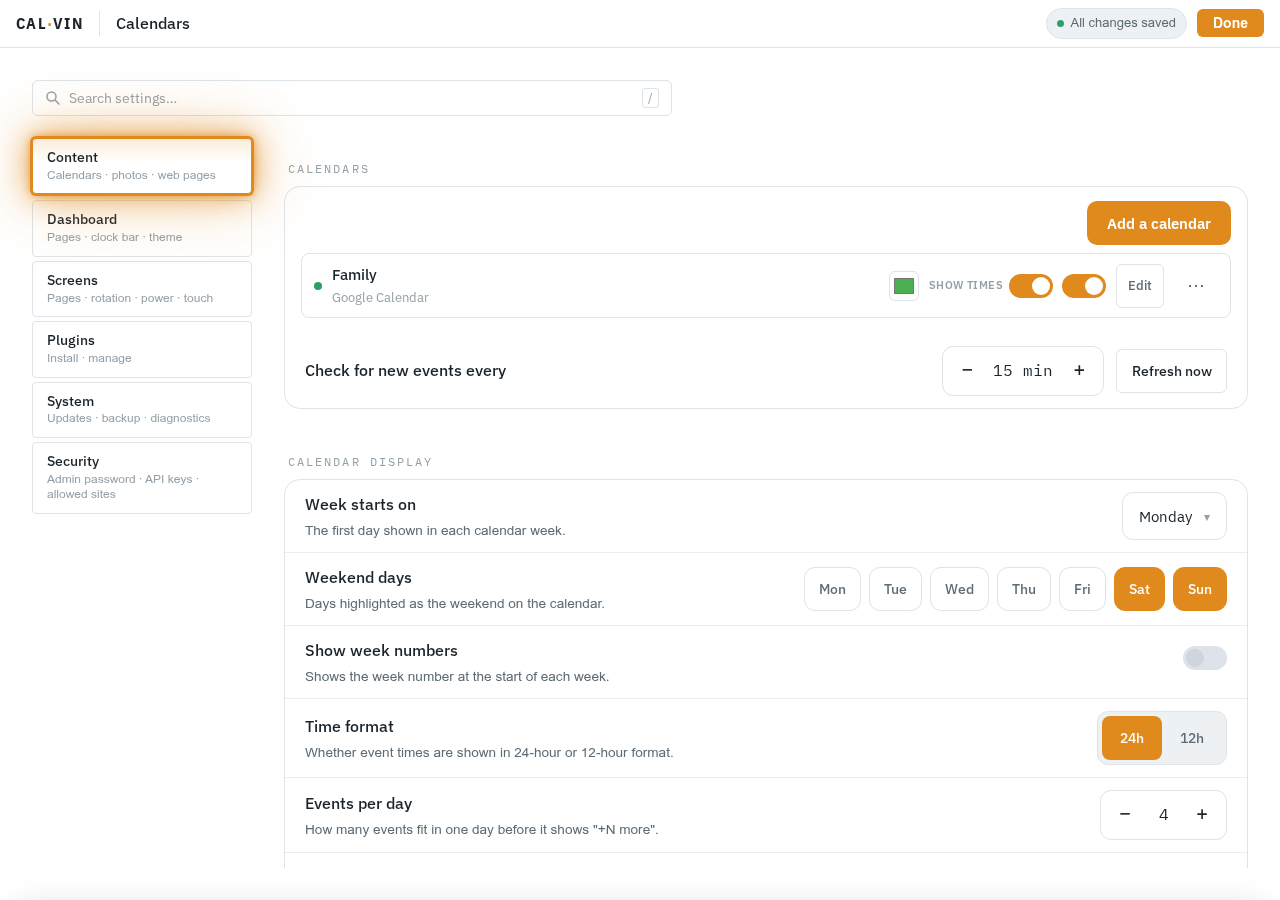
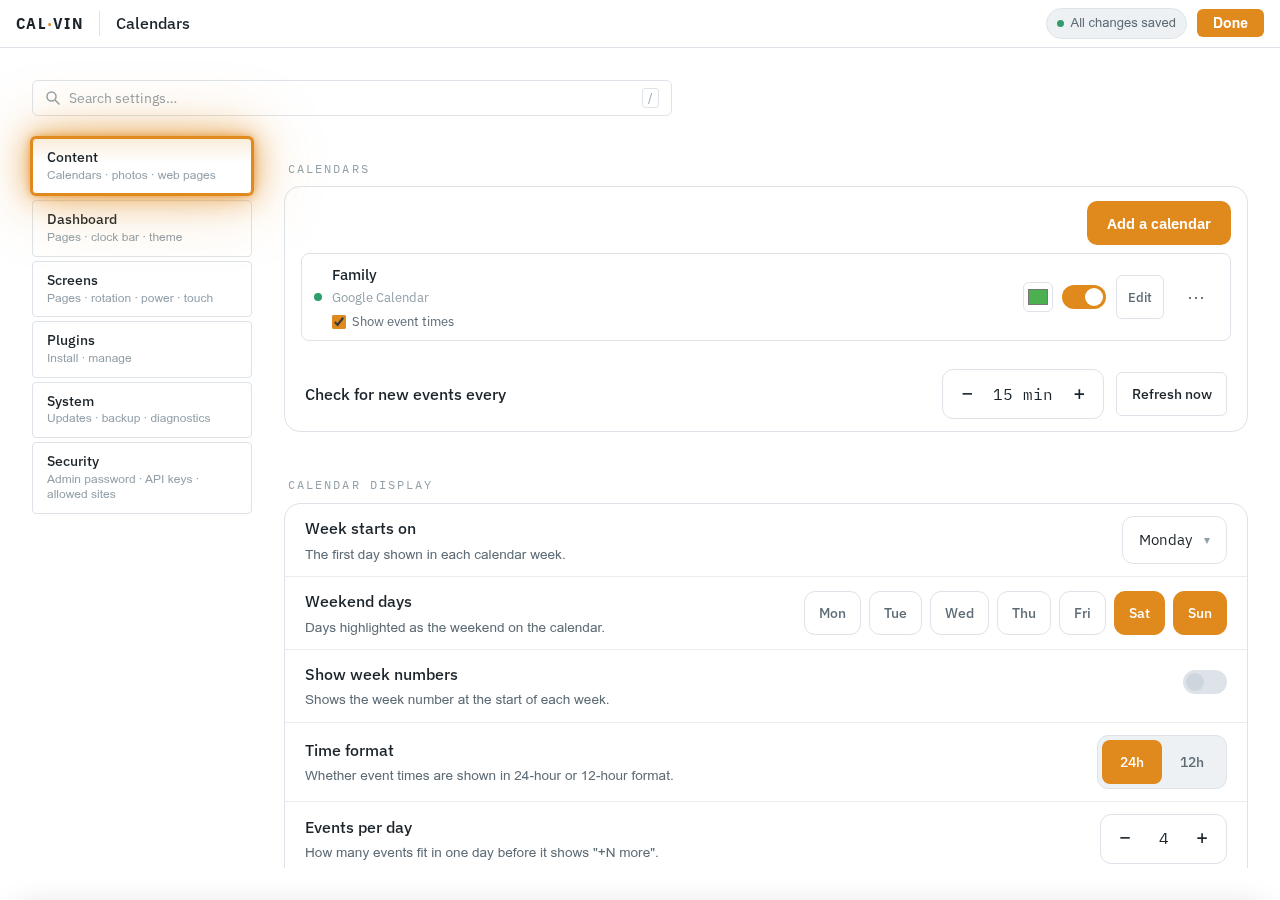
fix(frontend): unlabel-free calendar row and Local photos copy (CLV-44)
- Show event times is a small labelled checkbox on the calendar row's
  subline, so the right-hand controls are colour, enabled toggle, Edit and
  ⋯ like every other source row (no second unlabelled switch).
- Photo upload describes its destination as Local photos, matching the
  source row's name.
- Refresh the after screenshots for both.

diff --git a/frontend/src/components/settings/tabs/content/CalendarSourcesTab.vue b/frontend/src/components/settings/tabs/content/CalendarSourcesTab.vue
@@ -22,14 +22,17 @@
           :title="`Colour for ${row.name}`"
           @change="handleColorChange(row, $event.target.value)"
         />
-        <span class="cal-show-time">
-          <span class="cal-cap">Show times</span>
-          <ToggleSwitch
-            :model-value="row.showTime"
+      </template>
+      <template #meta="{ row }">
+        <label class="cal-show-times">
+          <input
+            type="checkbox"
+            :checked="row.showTime"
             :aria-label="`Show event times for ${row.name}`"
-            @update:model-value="v => handleShowTimeChange(row, v)"
+            @change="handleShowTimeChange(row, $event.target.checked)"
           />
-        </span>
+          Show event times
+        </label>
       </template>
     </SourceList>
 
@@ -77,7 +80,6 @@ import { usePlugins } from "@/composables";
 import * as calendarApi from "@/services/calendarApi";
 import * as pluginsApi from "@/services/pluginsApi";
 import SettingRow from "@/components/settings/shell/SettingRow.vue";
-import ToggleSwitch from "@/components/ui/ToggleSwitch.vue";
 import NumberStepper from "@/components/ui/NumberStepper.vue";
 import SourceList from "@/components/settings/specialized/SourceList.vue";
 import AddSourceButton from "@/components/settings/specialized/AddSourceButton.vue";
@@ -305,19 +307,29 @@ onMounted(async () => {
   outline-offset: 2px;
 }
 
-.cal-show-time {
-  display: flex;
+/* Show times lives on the row's subline as a small labelled checkbox, so the
+   right-hand controls read exactly like every other source row. */
+.cal-show-times {
+  display: inline-flex;
   align-items: center;
   gap: 0.35rem;
-}
-.cal-cap {
+  margin-top: 0.1rem;
   font-family: var(--font-ui);
-  font-size: 0.7rem;
-  font-weight: 600;
-  letter-spacing: 0.04em;
-  text-transform: uppercase;
-  color: var(--ink-3);
+  font-size: 0.8rem;
+  color: var(--ink-2);
+  cursor: pointer;
   white-space: nowrap;
+}
+.cal-show-times input {
+  width: 0.9rem;
+  height: 0.9rem;
+  margin: 0;
+  accent-color: var(--focus);
+  cursor: pointer;
+}
+.cal-show-times input:focus-visible {
+  outline: 2px solid var(--focus);
+  outline-offset: 2px;
 }
 
 .cal-refresh {

diff --git a/frontend/tests/unit/components/settings/CalendarSourcesTab.spec.js b/frontend/tests/unit/components/settings/CalendarSourcesTab.spec.js
@@ -113,7 +113,12 @@ describe("CalendarSourcesTab", () => {
     expect(row.text()).toContain("Google Calendar");
     // Calendar-only extras stay on the row.
     expect(row.find('input[type="color"]').exists()).toBe(true);
-    expect(row.text()).toContain("Show times");
+    // Show times is a small labelled checkbox on the subline, so the right
+    // side keeps the same controls as every other source row.
+    const showTimes = row.find(".cal-show-times");
+    expect(showTimes.text()).toBe("Show event times");
+    expect(showTimes.find('input[type="checkbox"]').exists()).toBe(true);
+    expect(row.findAllComponents({ name: "ToggleSwitch" })).toHaveLength(1);
   });
 
   it("add: the shared form's new calendar becomes a calendar source row", async () => {
@@ -170,13 +175,12 @@ describe("CalendarSourcesTab", () => {
     );
   });
 
-  it("show_time toggle calls updateSource with full object + updated show_time", async () => {
+  it("show_time checkbox calls updateSource with full object + updated show_time", async () => {
     mockSources.value = [{ ...sampleSource, show_time: true }];
     const w = mountComp();
     await flushPromises();
 
-    const showTimeToggle = w.findAllComponents({ name: "ToggleSwitch" })[0];
-    showTimeToggle.vm.$emit("update:modelValue", false);
+    await w.find('.cal-show-times input[type="checkbox"]').setValue(false);
     await flushPromises();
 
     expect(mockUpdateSource).toHaveBeenCalledWith(
@@ -190,7 +194,7 @@ describe("CalendarSourcesTab", () => {
     const w = mountComp();
     await flushPromises();
 
-    const enabledToggle = w.findAllComponents({ name: "ToggleSwitch" })[1];
+    const enabledToggle = w.findAllComponents({ name: "ToggleSwitch" })[0];
     enabledToggle.vm.$emit("update:modelValue", false);
     await flushPromises();
 

diff --git a/frontend/tests/unit/components/settings/PhotoUpload.spec.js b/frontend/tests/unit/components/settings/PhotoUpload.spec.js
@@ -42,6 +42,17 @@ describe("PhotoUpload (F3 landing spot for 'Add photos')", () => {
     expect(text).toContain("b.txt: Unsupported file format");
   });
 
+  it("describes uploads as landing in Local photos, with the count", () => {
+    store.images = [{ id: "a" }, { id: "b" }];
+    const wrapper = mount(PhotoUpload);
+
+    const description = wrapper.findComponent({ name: "SettingRow" }).props("description");
+    expect(description).toBe(
+      "Upload JPG, PNG, WebP or GIF files into Local photos. 2 photos so far."
+    );
+    expect(description).not.toContain("Local Images");
+  });
+
   it("the button opens the file picker", async () => {
     const wrapper = mount(PhotoUpload);
     const click = vi.spyOn(wrapper.find('[data-test="photo-upload-input"]').element, "click");

diff --git a/frontend/src/components/settings/tabs/content/PhotoUpload.vue b/frontend/src/components/settings/tabs/content/PhotoUpload.vue
@@ -1,7 +1,7 @@
 <template>
   <SettingRow
     label="Add photos"
-    :description="`Upload JPG, PNG, WebP or GIF files to the built-in Local Images source. ${countLabel}`"
+    :description="`Upload JPG, PNG, WebP or GIF files into Local photos. ${countLabel}`"
   >
     <input
       ref="fileInput"
